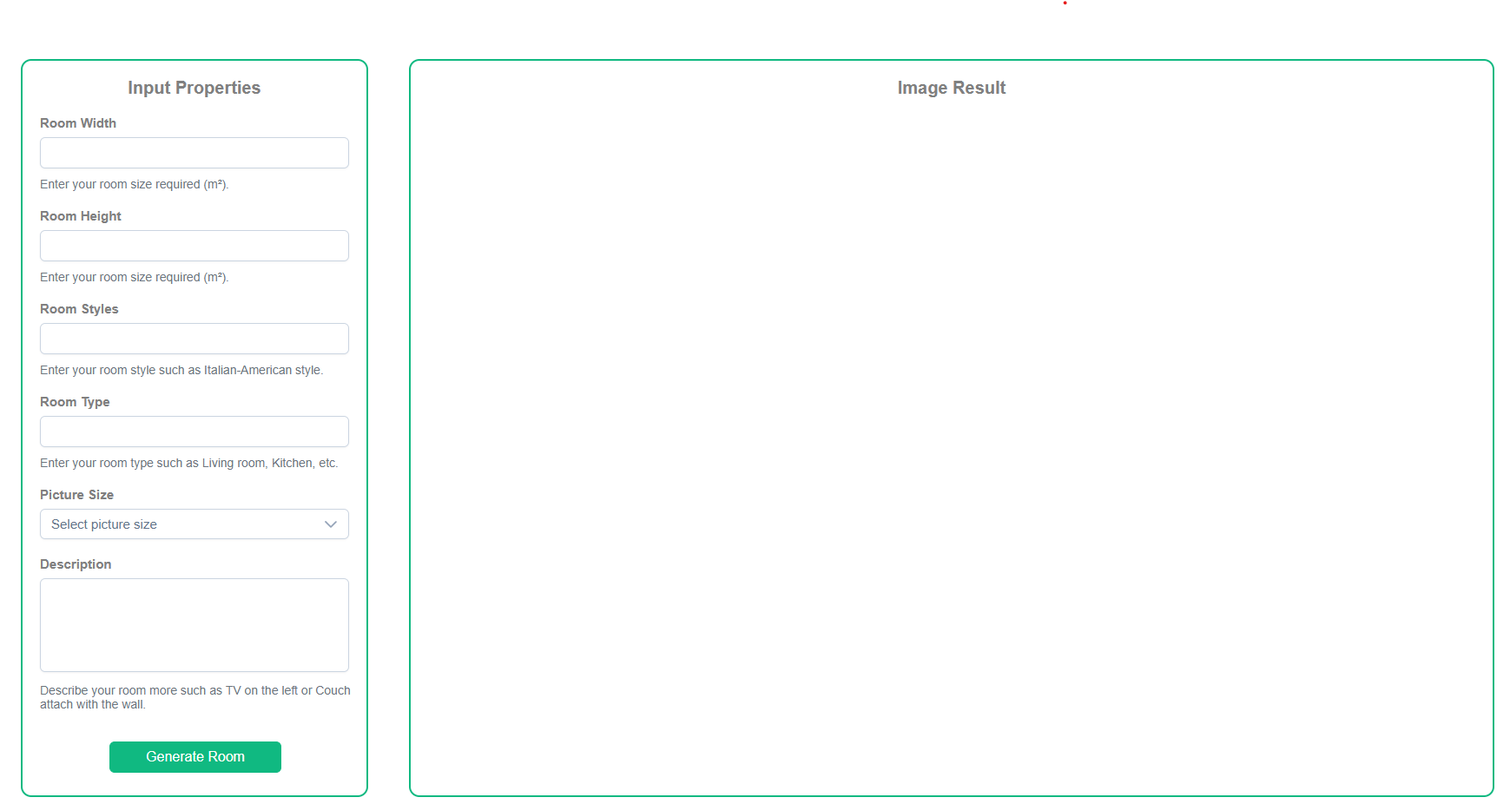
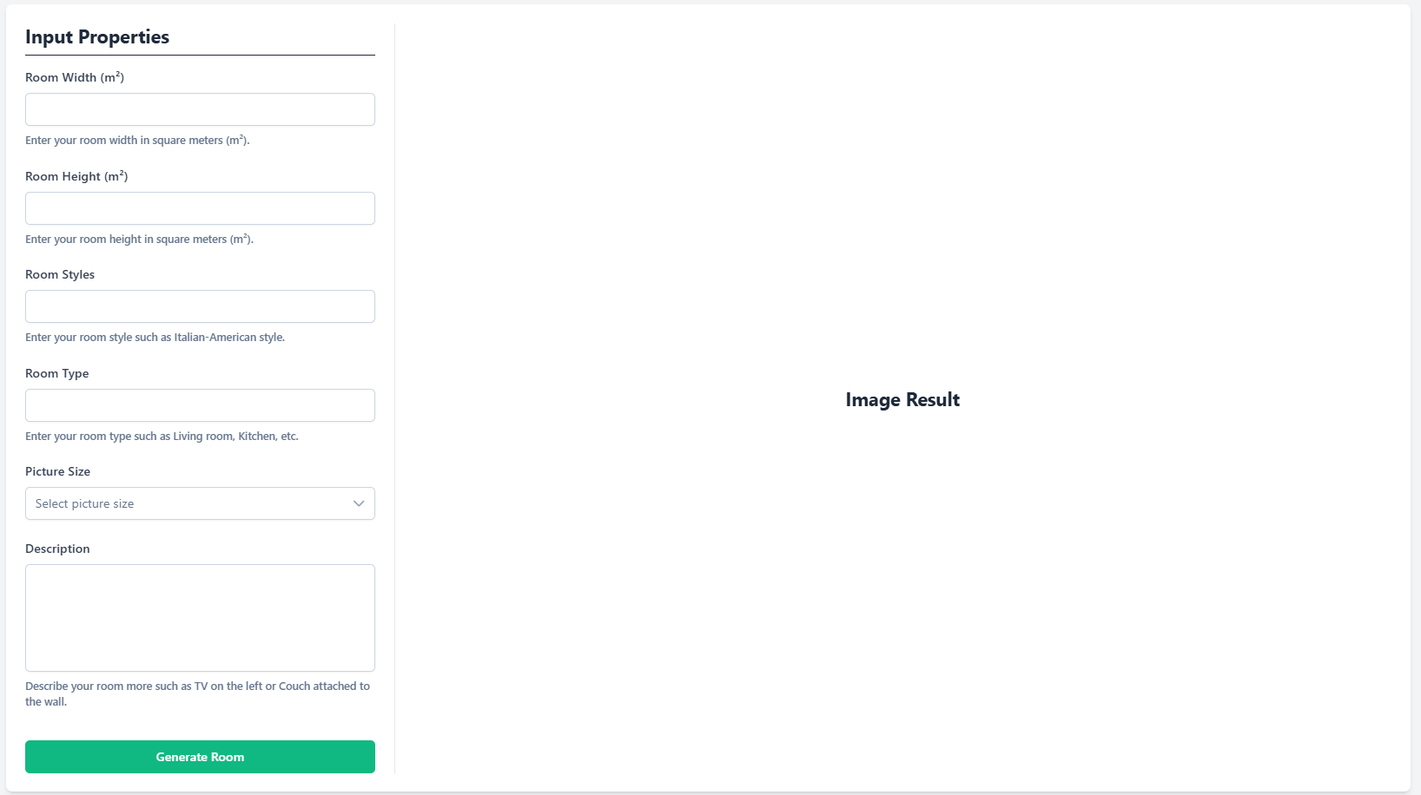
enhance materials

diff --git a/rv-webf/src/views/service/CreateRoomPage.vue b/rv-webf/src/views/service/CreateRoomPage.vue
@@ -6,6 +6,7 @@ import { formatDateToYMD } from '../../components/DateFormat';
 import { useServiceStore } from '../../store/ServiceStore';
 import { useAuthStore } from '../../store/AuthStore';
 import { useMessageDialog } from '../../components/MessageDialog.js'; 
+import { marked } from 'marked';
 
 import Repositories from '../../apis/repositories/RepositoriesFactory.js';
 import Menu from 'primevue/menu';
@@ -43,6 +44,8 @@ const size = ref([
 ])
 const etc = ref('');
 const imageUrl = ref('');
+const material = ref('');
+const materialAnalysisHtml = ref('');
 
 async function onSubmit() {
     loading.value = true;
@@ -56,6 +59,8 @@ async function onSubmit() {
         const response = await serviceStore.genImage({prompt, ratio});
         if (response.status === 200) {
             imageUrl.value = response.data.image;
+            material.value = response.data.analysis;
+            materialAnalysisHtml.value = marked.parse(material.value);
         } else {
         await messageDialog.show(response.data.message, 'error');
         }
@@ -156,7 +161,10 @@ async function onManage(){
                 <p>Subscription: <span class="font-medium">{{ authStore.getProductName }}</span></p>
                 <p>Credits: <span class="font-medium">{{ serviceStore.getCreditsCount }}</span></p>
             </div>
-            <div class="md:hidden">
+            <div class="md:hidden "> 
+                <Button icon="fa-solid fa-bars" @click="visibleLeft = true" class="p-button-rounded p-button-text" />
+            </div>
+            <div class="translate-x-30 md:hidden dark:text-black">
                 <p>Credits: <span class="font-medium">{{ serviceStore.getCreditsCount }}</span></p>
             </div>
             <div class="flex-grow text-center">
@@ -168,91 +176,88 @@ async function onManage(){
             </div>
         </header>
 
-        <main class="flex-grow flex flex-col md:flex-row p-4 gap-6">
-            <div class="md:hidden flex justify-start mb-4"> <Button icon="fa-solid fa-arrow-right" @click="visibleLeft = true" class="p-button-rounded p-button-text" />
-            </div>
-            <Drawer v-model:visible="visibleLeft" header="Menu" position="left" class="md:hidden">
-                <div class="flex flex-col gap-4 p-4">
-                    <RouterLink to="/service/create" class="text-lg text-green-600 hover:text-green-800 transition-colors">Create Room</RouterLink>
-                    <RouterLink to="/service/renovate" class="text-lg text-green-600 hover:text-green-800 transition-colors">Renovate Room</RouterLink>
-                    <RouterLink to="/service/creditAndSubscription" class="text-lg text-green-600 hover:text-green-800 transition-colors">Credits & Subscription</RouterLink>
-                </div>
-            </Drawer>
+        <main class="flex-grow flex flex-col p-4 gap-6"> 
+            <div class="flex flex-col md:flex-row gap-6 flex-grow"> 
+                <aside class="hidden md:block w-64 bg-white p-4 rounded-lg shadow-md">
+                    <nav class="flex flex-col gap-4">
+                        <RouterLink to="/service/create" class="text-lg font-medium text-gray-700 hover:text-green-600 transition-colors py-2 px-3 rounded-md hover:bg-green-50">Create Room</RouterLink>
+                        <RouterLink to="/service/renovate" class="text-lg font-medium text-gray-700 hover:text-green-600 transition-colors py-2 px-3 rounded-md hover:bg-green-50">Renovate Room</RouterLink>
+                        <RouterLink to="/service/creditAndSubscription" class="text-lg font-medium text-gray-700 hover:text-green-600 transition-colors py-2 px-3 rounded-md hover:bg-green-50">Credits & Subscription</RouterLink>
+                    </nav>
+                </aside>
 
-            <aside class="hidden md:block w-64 bg-white p-4 rounded-lg shadow-md">
-                <nav class="flex flex-col gap-4">
-                    <RouterLink to="/service/create" class="text-lg font-medium text-gray-700 hover:text-green-600 transition-colors py-2 px-3 rounded-md hover:bg-green-50">Create Room</RouterLink>
-                    <RouterLink to="/service/renovate" class="text-lg font-medium text-gray-700 hover:text-green-600 transition-colors py-2 px-3 rounded-md hover:bg-green-50">Renovate Room</RouterLink>
-                    <RouterLink to="/service/creditAndSubscription" class="text-lg font-medium text-gray-700 hover:text-green-600 transition-colors py-2 px-3 rounded-md hover:bg-green-50">Credits & Subscription</RouterLink>
-                </nav>
-            </aside>
+                <section class="flex-grow flex flex-col lg:flex-row gap-6 bg-white p-6 rounded-lg shadow-md">
+                    <div class="flex-1 space-y-6 max-w-md">
+                        <h2 class="text-2xl font-bold text-gray-800 border-b pb-2 mb-4">Input Properties</h2>
+                        <div class="flex flex-col gap-2">
+                            <label for="roomSizeWidth" class="text-gray-700 font-medium">Room Width (m²)</label>
+                            <InputNumber inputId="roomSizeWidth" v-model="roomSizeWidth" aria-describedby="roomSizeWidth-help" :minFractionDigits="2" :maxFractionDigits="2" :min="0" :max="500" class="w-full" />
+                            <Message size="small" severity="secondary" variant="simple" class="text-sm text-gray-500">Enter your room width in square meters (m²).</Message>
+                        </div>
+                        <div class="flex flex-col gap-2">
+                            <label for="roomSizeHeight" class="text-gray-700 font-medium">Room Height (m²)</label>
+                            <InputNumber inputId="roomSizeHeight" v-model="roomSizeHeight" aria-describedby="roomSizeHeight-help" :minFractionDigits="2" :maxFractionDigits="2" :min="0" :max="500" class="w-full" />
+                            <Message size="small" severity="secondary" variant="simple" class="text-sm text-gray-500">Enter your room height in square meters (m²).</Message>
+                        </div>
+                        <div class="flex flex-col gap-2">
+                            <label for="roomstyle" class="text-gray-700 font-medium">Room Styles</label>
+                            <InputText id="roomstyle" v-model="roomStyle" aria-describedby="roomstyle-help" class="w-full" />
+                            <Message size="small" severity="secondary" variant="simple" class="text-sm text-gray-500">Enter your room style such as Italian-American style.</Message>
+                        </div>
+                        <div class="flex flex-col gap-2">
+                            <label for="roomtype" class="text-gray-700 font-medium">Room Type</label>
+                            <InputText id="roomtype" v-model="roomType" aria-describedby="roomtype-help" class="w-full" />
+                            <Message size="small" severity="secondary" variant="simple" class="text-sm text-gray-500">Enter your room type such as Living room, Kitchen, etc.</Message>
+                        </div>
+                        <div class="flex flex-col gap-2">
+                            <label for="picturesize" class="text-gray-700 font-medium">Picture Size</label>
+                            <Select v-model="pictureSize" :options="size" optionLabel="name" placeholder="Select picture size" class="w-full" />
+                        </div>
+                        <div class="flex flex-col gap-2">
+                            <label for="description" class="text-gray-700 font-medium">Description</label>
+                            <Textarea id="description" v-model="etc" rows="5" cols="30" class="w-full resize-none" />
+                            <Message size="small" severity="secondary" variant="simple" class="text-sm text-gray-500">Describe your room more such as TV on the left or Couch attached to the wall.</Message>
+                        </div>
+                        <Button label="Generate Room" @click="onSubmit" class="w-full mt-4 bg-blue-600 text-white py-3 rounded-md hover:bg-blue-700 transition-colors" />
+                    </div>
 
-            <section class="flex-grow flex flex-col lg:flex-row gap-6 bg-white p-6 rounded-lg shadow-md">
-                <div class="flex-1 space-y-6  max-w-md">
-                    <h2 class="text-2xl font-bold text-gray-800 border-b pb-2 mb-4">Input Properties</h2>
-                    
-                    <div class="flex flex-col gap-2">
-                        <label for="roomSizeWidth" class="text-gray-700 font-medium">Room Width (m²)</label>
-                        <InputNumber inputId="roomSizeWidth" v-model="roomSizeWidth" aria-describedby="roomSizeWidth-help" :minFractionDigits="2" :maxFractionDigits="2" :min="0" :max="500" class="w-full" />
-                        <Message size="small" severity="secondary" variant="simple" class="text-sm text-gray-500">Enter your room width in square meters (m²).</Message>
+                    <div class="flex-1 space-y-6 flex flex-col items-center justify-center border-t lg:border-t-0 lg:border-l pt-6 lg:pt-0 lg:pl-6 border-gray-200">
+                        <h2 class="text-2xl font-bold text-gray-800">Image Result</h2>
+                        <Image :src="imageUrl" alt="Generated room" class="max-w-full h-auto rounded-lg shadow-md" preview v-if="imageUrl"/>
+                        <Button label="Download Image" @click="downloadImage" v-if="imageUrl" class="mt-4 bg-green-600 text-white py-3 px-6 rounded-md hover:bg-green-700 transition-colors" />
                     </div>
-                    
-                    <div class="flex flex-col gap-2">
-                        <label for="roomSizeHeight" class="text-gray-700 font-medium">Room Height (m²)</label>
-                        <InputNumber inputId="roomSizeHeight" v-model="roomSizeHeight" aria-describedby="roomSizeHeight-help" :minFractionDigits="2" :maxFractionDigits="2" :min="0" :max="500" class="w-full" />
-                        <Message size="small" severity="secondary" variant="simple" class="text-sm text-gray-500">Enter your room height in square meters (m²).</Message>
+
+                    <div v-if="loading" class="fixed inset-0 backdrop-blur-sm flex items-center justify-center z-50">
+                        <div class="bg-white p-8 rounded-lg shadow-xl text-center flex flex-col items-center gap-4">
+                            <ProgressSpinner style="width: 70px; height: 70px" strokeWidth="8" fill="transparent" animationDuration=".5s" aria-label="Custom ProgressSpinner"/>
+                            <p class="text-lg font-medium text-gray-700">Right now image is generating, please wait for 2-3 minutes</p>
+                        </div>
                     </div>
-                    
-                    <div class="flex flex-col gap-2">
-                        <label for="roomstyle" class="text-gray-700 font-medium">Room Styles</label>
-                        <InputText id="roomstyle" v-model="roomStyle" aria-describedby="roomstyle-help" class="w-full" />
-                        <Message size="small" severity="secondary" variant="simple" class="text-sm text-gray-500">Enter your room style such as Italian-American style.</Message>
+                </section>
+            </div> 
+            <section class="w-full bg-white p-6 rounded-lg shadow-md">
+                <div v-if="materialAnalysisHtml" class="w-full border-t pt-6 mt-6 border-gray-200">
+                    <h2 class="text-3xl font-bold text-gray-800 text-center mb-6">Material Analysis</h2>
+                    <div class="prose max-w-none text-gray-700 leading-relaxed material-analysis-content">
+                        <div v-html="materialAnalysisHtml"></div>
                     </div>
-                    
-                    <div class="flex flex-col gap-2">
-                        <label for="roomtype" class="text-gray-700 font-medium">Room Type</label>
-                        <InputText id="roomtype" v-model="roomType" aria-describedby="roomtype-help" class="w-full" />
-                        <Message size="small" severity="secondary" variant="simple" class="text-sm text-gray-500">Enter your room type such as Living room, Kitchen, etc.</Message>
-                    </div>
-                    
-                    <div class="flex flex-col gap-2">
-                        <label for="picturesize" class="text-gray-700 font-medium">Picture Size</label>
-                        <Select v-model="pictureSize" :options="size" optionLabel="name" placeholder="Select picture size" class="w-full" />
-                    </div>
-                    
-                    <div class="flex flex-col gap-2">
-                        <label for="description" class="text-gray-700 font-medium">Description</label>
-                        <Textarea id="description" v-model="etc" rows="5" cols="30" class="w-full resize-none" />
-                        <Message size="small" severity="secondary" variant="simple" class="text-sm text-gray-500">Describe your room more such as TV on the left or Couch attached to the wall.</Message>
-                    </div>
-                    
-                    <Button label="Generate Room" @click="onSubmit" class="w-full mt-4 bg-blue-600 text-white py-3 rounded-md hover:bg-blue-700 transition-colors" />
                 </div>
-                
-                <div class="flex-1 space-y-6 flex flex-col items-center justify-center border-t lg:border-t-0 lg:border-l pt-6 lg:pt-0 lg:pl-6 border-gray-200">
-                    <h2 class="text-2xl font-bold text-gray-800">Image Result</h2>
-                    <Image :src="imageUrl" alt="Generated room" class="max-w-full h-auto rounded-lg shadow-md" preview v-if="imageUrl"/>
-                    <Button label="Download Image" @click="downloadImage" v-if="imageUrl" class="mt-4 bg-green-600 text-white py-3 px-6 rounded-md hover:bg-green-700 transition-colors" />
-                </div>
-                
-                <div v-if="loading" class="fixed inset-0 backdrop-blur-sm flex items-center justify-center z-50">
-                    <div class="bg-white p-8 rounded-lg shadow-xl text-center flex flex-col items-center gap-4">
-                        <ProgressSpinner style="width: 70px; height: 70px" strokeWidth="8" fill="transparent" animationDuration=".5s" aria-label="Custom ProgressSpinner"/>
-                        <p class="text-lg font-medium text-gray-700">Right now image is generating, please wait for 2-3 minutes</p>
-                    </div>
+                <div v-else-if="!loading && imageUrl" class="w-full border-t pt-6 mt-6 border-gray-200 text-center text-gray-500">
+                    <p>No material analysis available for this generation.</p>
                 </div>
             </section>
         </main>
         
-        <footer class="bg-gray-800 text-white p-8">
-            <div class="container mx-auto flex flex-col md:flex-row justify-between items-center gap-6">
-                <h3 class="text-2xl font-semibold">Room Visualizer</h3>
-                <div class="flex flex-col md:flex-row gap-4 text-center md:text-left">
-                    <RouterLink to="/home" class="hover:text-blue-300 transition-colors">Home</RouterLink>
-                    <RouterLink to="/service/create" class="hover:text-blue-300 transition-colors">Create Room</RouterLink>
-                    <RouterLink to="/price" class="hover:text-blue-300 transition-colors">Pricing</RouterLink>
+        <footer class="bg-gray-800 text-gray-300 py-8 px-4 mt-auto">
+            <div class="container mx-auto flex flex-col md:flex-row justify-between items-center text-center md:text-left">
+                <h3 class="text-xl font-bold mb-4 md:mb-0 text-white">Room Visualizer</h3>
+                <div class="flex flex-col md:flex-row space-y-2 md:space-y-0 md:space-x-6 mb-4 md:mb-0 md:pl-30">
+                    <RouterLink to="/home" class="hover:text-white transition-colors duration-200">Home</RouterLink>
+                    <RouterLink to="/service/create" class="hover:text-white transition-colors duration-200">Create Room</RouterLink>
+                    <RouterLink to="/price" class="hover:text-white transition-colors duration-200">Pricing</RouterLink>
+                    <RouterLink to="/contact" class="hover:text-white transition-colors duration-200">Contact Us</RouterLink>
                 </div>
-                <div class="text-sm text-gray-400">
+                <div class="text-sm">
                     <p>© 2025 Room Visualizer. All rights reserved.</p>
                 </div>
             </div>

diff --git a/rv-webf/src/views/service/PriceMenuPage.vue b/rv-webf/src/views/service/PriceMenuPage.vue
@@ -120,7 +120,10 @@ async function onManage(){
                 <p>Subscription: <span class="font-medium">{{ authStore.getProductName }}</span></p>
                 <p>Credits: <span class="font-medium">{{ serviceStore.getCreditsCount }}</span></p>
             </div>
-            <div class="md:hidden">
+            <div class="md:hidden "> 
+                <Button icon="fa-solid fa-bars" @click="visibleLeft = true" class="p-button-rounded p-button-text" />
+            </div>
+            <div class="translate-x-30 md:hidden dark:text-black">
                 <p>Credits: <span class="font-medium">{{ serviceStore.getCreditsCount }}</span></p>
             </div>
             <div class="flex-grow text-center">
@@ -133,8 +136,6 @@ async function onManage(){
         </header>
 
         <main class="flex-grow flex flex-col md:flex-row p-4 gap-6">
-            <div class="md:hidden flex justify-start mb-4"> <Button icon="fa-solid fa-arrow-right" @click="visibleLeft = true" class="p-button-rounded p-button-text" />
-            </div>
             <Drawer v-model:visible="visibleLeft" header="Menu" position="left" class="md:hidden">
                 <div class="flex flex-col gap-4 p-4">
                     <RouterLink to="/service/create" class="text-lg text-green-600 hover:text-green-800 transition-colors">Create Room</RouterLink>
@@ -179,15 +180,16 @@ async function onManage(){
             </section>
         </main>
         
-        <footer class="bg-gray-800 text-white p-8">
-            <div class="container mx-auto flex flex-col md:flex-row justify-between items-center gap-6">
-                <h3 class="text-2xl font-semibold">Room Visualizer</h3>
-                <div class="flex flex-col md:flex-row gap-4 text-center md:text-left">
-                    <RouterLink to="/home" class="hover:text-blue-300 transition-colors">Home</RouterLink>
-                    <RouterLink to="/service/create" class="hover:text-blue-300 transition-colors">Create Room</RouterLink>
-                    <RouterLink to="/price" class="hover:text-blue-300 transition-colors">Pricing</RouterLink>
+        <footer class="bg-gray-800 text-gray-300 py-8 px-4 mt-auto">
+            <div class="container mx-auto flex flex-col md:flex-row justify-between items-center text-center md:text-left">
+                <h3 class="text-xl font-bold mb-4 md:mb-0 text-white">Room Visualizer</h3>
+                <div class="flex flex-col md:flex-row space-y-2 md:space-y-0 md:space-x-6 mb-4 md:mb-0 md:pl-30">
+                    <RouterLink to="/home" class="hover:text-white transition-colors duration-200">Home</RouterLink>
+                    <RouterLink to="/service/create" class="hover:text-white transition-colors duration-200">Create Room</RouterLink>
+                    <RouterLink to="/price" class="hover:text-white transition-colors duration-200">Pricing</RouterLink>
+                    <RouterLink to="/contact" class="hover:text-white transition-colors duration-200">Contact Us</RouterLink>
                 </div>
-                <div class="text-sm text-gray-400">
+                <div class="text-sm">
                     <p>© 2025 Room Visualizer. All rights reserved.</p>
                 </div>
             </div>

diff --git a/rv-webf/src/views/service/RenovateRoomPage.vue b/rv-webf/src/views/service/RenovateRoomPage.vue
@@ -200,7 +200,10 @@ async function onManage(){
                 <p>Subscription: <span class="font-medium">{{ authStore.getProductName }}</span></p>
                 <p>Credits: <span class="font-medium">{{ serviceStore.getCreditsCount }}</span></p>
             </div>
-            <div class="md:hidden">
+            <div class="md:hidden"> 
+                <Button icon="fa-solid fa-bars" @click="visibleLeft = true" class="p-button-rounded p-button-text" />
+            </div>
+            <div class="translate-x-30 md:hidden dark:text-black">
                 <p>Credits: <span class="font-medium">{{ serviceStore.getCreditsCount }}</span></p>
             </div>
             <div class="flex-grow text-center">
@@ -213,8 +216,6 @@ async function onManage(){
         </header>
 
         <main class="flex-grow flex flex-col md:flex-row p-4 gap-6">
-            <div class="md:hidden flex justify-start mb-4"> <Button icon="fa-solid fa-arrow-right" @click="visibleLeft = true" class="p-button-rounded p-button-text" />
-            </div>
             <Drawer v-model:visible="visibleLeft" header="Menu" position="left" class="md:hidden">
                 <div class="flex flex-col gap-4 p-4">
                     <RouterLink to="/service/create" class="text-lg text-green-600 hover:text-green-800 transition-colors">Create Room</RouterLink>
@@ -283,15 +284,16 @@ async function onManage(){
             </section>
         </main>
         
-        <footer class="bg-gray-800 text-white p-8">
-            <div class="container mx-auto flex flex-col md:flex-row justify-between items-center gap-6">
-                <h3 class="text-2xl font-semibold">Room Visualizer</h3>
-                <div class="flex flex-col md:flex-row gap-4 text-center md:text-left">
-                    <RouterLink to="/home" class="hover:text-blue-300 transition-colors">Home</RouterLink>
-                    <RouterLink to="/service/create" class="hover:text-blue-300 transition-colors">Create Room</RouterLink>
-                    <RouterLink to="/price" class="hover:text-blue-300 transition-colors">Pricing</RouterLink>
+        <footer class="bg-gray-800 text-gray-300 py-8 px-4 mt-auto">
+            <div class="container mx-auto flex flex-col md:flex-row justify-between items-center text-center md:text-left">
+                <h3 class="text-xl font-bold mb-4 md:mb-0 text-white">Room Visualizer</h3>
+                <div class="flex flex-col md:flex-row space-y-2 md:space-y-0 md:space-x-6 mb-4 md:mb-0 md:pl-30">
+                    <RouterLink to="/home" class="hover:text-white transition-colors duration-200">Home</RouterLink>
+                    <RouterLink to="/service/create" class="hover:text-white transition-colors duration-200">Create Room</RouterLink>
+                    <RouterLink to="/price" class="hover:text-white transition-colors duration-200">Pricing</RouterLink>
+                    <RouterLink to="/contact" class="hover:text-white transition-colors duration-200">Contact Us</RouterLink>
                 </div>
-                <div class="text-sm text-gray-400">
+                <div class="text-sm">
                     <p>© 2025 Room Visualizer. All rights reserved.</p>
                 </div>
             </div>

diff --git a/rv-webb/src/controllers/StripeController.js b/rv-webb/src/controllers/StripeController.js
@@ -110,16 +110,16 @@ export const handleWebhook = async(req, res) => {
 
                     if(purchasedPrice.recurring.interval === 'year'){
                         const product = await Product.findOne({ where :{ recId: 4}});
-                        userService.serviceName = product.productName;
-                        userService.serviceAccess = 'Y';
-                        userService.serviceId = product.recId;
+                        userService.productName = product.productName;
+                        userService.productAccess = 'Y';
+                        userService.productId = product.recId;
                         userService.credits = userService.credits + product.creditGrant;
                         await userService.save();
                     }else {
                         const product = await Product.findOne({ where :{ recId: 3}});
-                        userService.serviceName = product.productName;
-                        userService.serviceAccess = 'Y';
-                        userService.serviceId = product.recId;
+                        userService.productName = product.productName;
+                        userService.productAccess = 'Y';
+                        userService.productId = product.recId;
                         userService.credits = userService.credits + product.creditGrant;
                         await userService.save();
                     }
@@ -127,9 +127,9 @@ export const handleWebhook = async(req, res) => {
 
                 } else if (session.mode === 'payment') {
                     const product = await Product.findOne({ where :{ recId: 2 }});
-                    userService.serviceName = product.productName;
-                    userService.serviceAccess = 'Y';
-                    userService.serviceId = product.recId;
+                    userService.productName = product.productName;
+                    userService.productAccess = 'Y';
+                    userService.productId = product.recId;
                     await Service.increment('credits', { by: 35, where: { customerId: internalCustomerId } });
                     console.log(`User ${internalCustomerId} granted credits.`);
                     await userService.save();

diff --git a/rv-webf/src/components/Purchase.js b/rv-webf/src/components/Purchase.js
@@ -1,5 +1,5 @@
 import { decodeJwt } from './DecodeJwt.js';
-
+import { useMessageDialog } from './MessageDialog.js'; 
 import RepositoriesFactory from '@/apis/repositories/RepositoriesFactory.js';
 
 const repository = RepositoriesFactory.get('PurchaseRepository');
@@ -7,6 +7,7 @@ const repository = RepositoriesFactory.get('PurchaseRepository');
 const priceOneAtATimeId = 'price_1Rbm2FGbnW1BWWOPK94CLqcK';
 const priceSubscribeMonthlyId = 'price_1RVD30GbnW1BWWOPKd9A3usu';
 const priceSubscribeAnnuallyId = 'price_1RVD30GbnW1BWWOPvZGgp2LN';
+const messageDialog = useMessageDialog();
 
 export async function handlePlanSelection(planName, billingCycle, router) {
   const token = localStorage.getItem('token');
@@ -42,12 +43,12 @@ export async function handlePlanSelection(planName, billingCycle, router) {
         window.location.href = session.url;
       } else {
         console.error("Backend did not return a valid Stripe Checkout Session URL.", session);
-        alert("Failed to initiate checkout. Please try again.");
+        messageDialog.show("Failed to initiate checkout. Please try again.", 'error');
       }
     }catch(error){
       console.error("Error creating Stripe Checkout Session:", error.response?.data || error.message);
-      alert("Please login or sign-up to access our service.");
-      router.push('/login');
+      messageDialog.show("Please login or sign-up to access our service.", 'error');
+      // router.push('/login');
     }
   }
 }

diff --git a/rv-webf/src/views/login/CreateAccountPage.vue b/rv-webf/src/views/login/CreateAccountPage.vue
@@ -92,13 +92,13 @@ async function onSubmit({ valid }) {
     const response = await respository.create(items);
     if(response.status === 200){
       dialogSuccess.value = true;
-      // router.push('/login');
     }
   } catch (error) {
     console.error("Error: "+ error);
     messageDialog.show(error.response.data?.message, 'error');
   } finally {
     isLoading.value = false;
+    router.push('/login');
   }
 }
 </script>

diff --git a/rv-webf/tailwind.config.js b/rv-webf/tailwind.config.js
@@ -1,4 +1,5 @@
 /** @type {import('tailwindcss').Config} */
+
 export default {
   content: [
     "./index.html",
@@ -7,5 +8,5 @@ export default {
   theme: {
     extend: {},
   },
-  plugins: [],
+  plugins: [require('@tailwindcss/typography')],
 }
